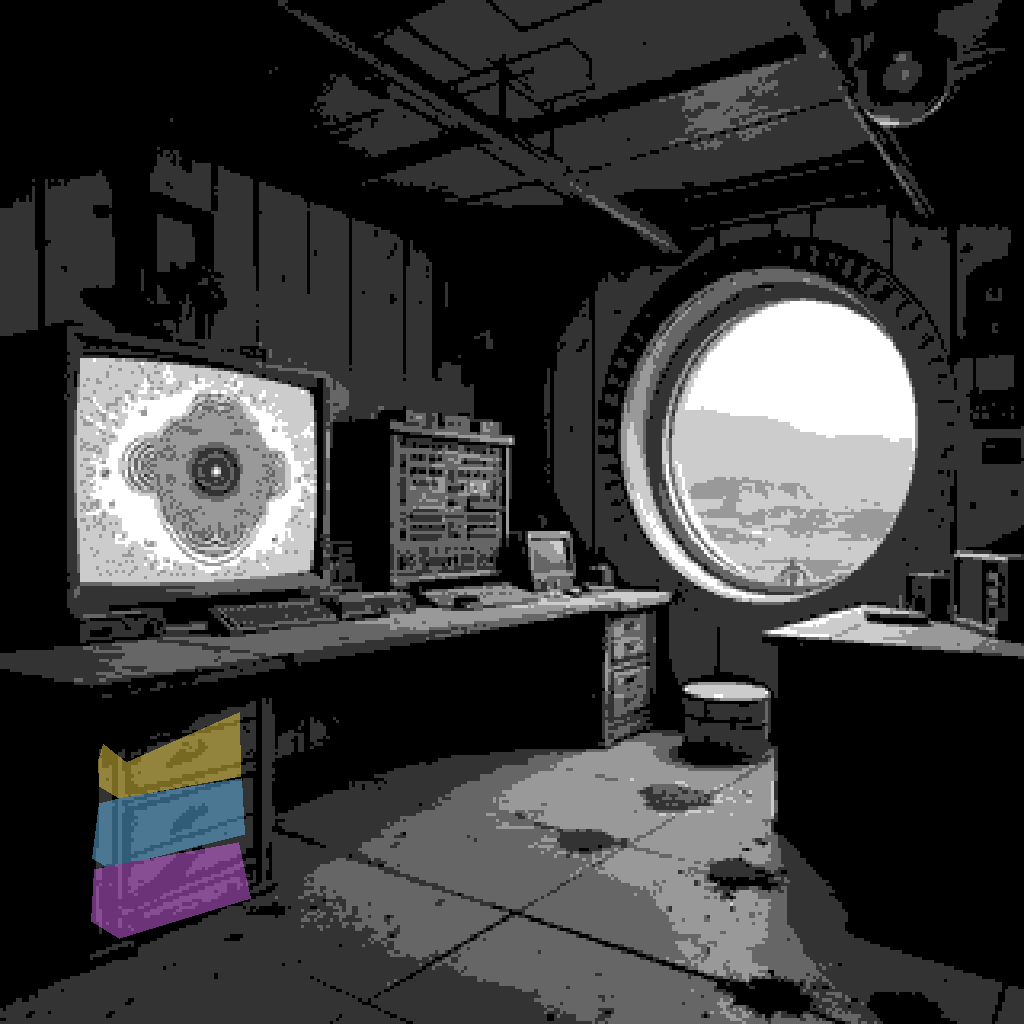
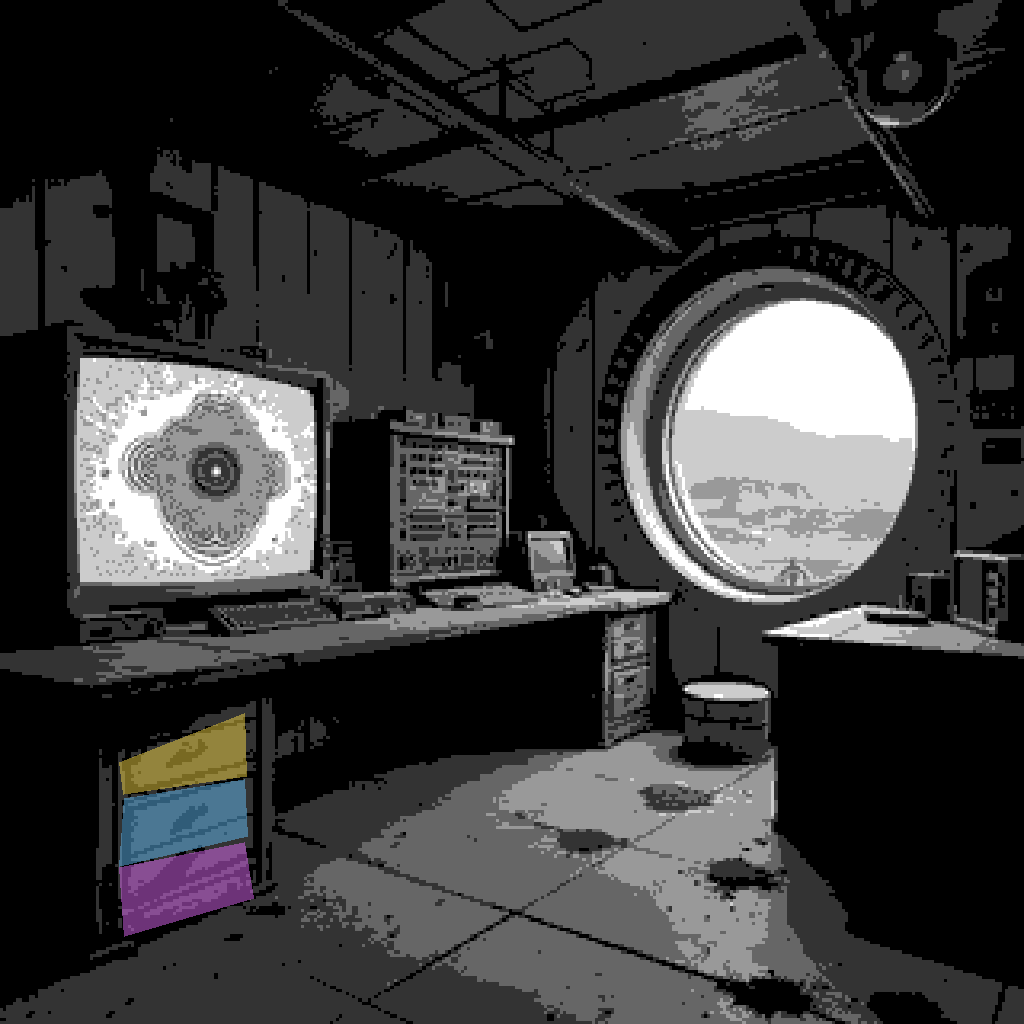
Tighten manual drawer face annotation

Changed region(s): [[0.0625, 0.7188, 0.1562, 0.9375], [0.1562, 0.8125, 0.25, 0.875], [0.2188, 0.6875, 0.25, 0.7812]]

diff --git a/manual-drawer-annotation/index.html b/manual-drawer-annotation/index.html
@@ -28,9 +28,9 @@
         <div>
           <p>Automatic candidates remain weak against the corrected target:</p>
           <ul>
-            <li><code>drawer-top-hand.png</code>: best IoU 0.415 against <code>sam2-proposal-audition/drawers-roi-4x/candidate-00.png</code></li>
-<li><code>drawer-middle-hand.png</code>: best IoU 0.212 against <code>mask-model-audition/drawers/hq_sam2_core.png</code></li>
-<li><code>drawer-bottom-hand.png</code>: best IoU 0.173 against <code>mask-model-audition/drawers/hq_sam2_core.png</code></li>
+            <li><code>drawer-top-hand.png</code>: best IoU 0.510 against <code>sam2-proposal-audition/drawers-roi-4x/candidate-00.png</code></li>
+<li><code>drawer-middle-hand.png</code>: best IoU 0.215 against <code>sam2-proposal-audition/drawers-roi-4x/candidate-09.png</code></li>
+<li><code>drawer-bottom-hand.png</code>: best IoU 0.175 against <code>mask-model-audition/drawers/hq_sam2_core.png</code></li>
           </ul>
           <p>Interpretation: blind automatic segmentation does not recover the intended drawer faces reliably. Use guided masks or manual annotation for this class of object.</p>
         </div>
